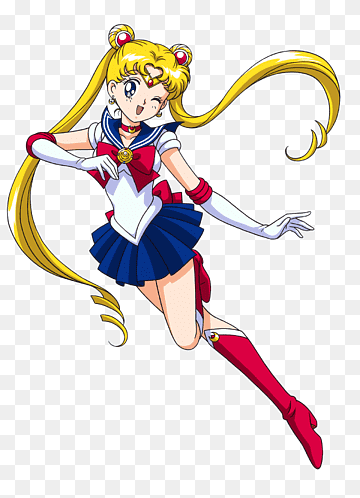
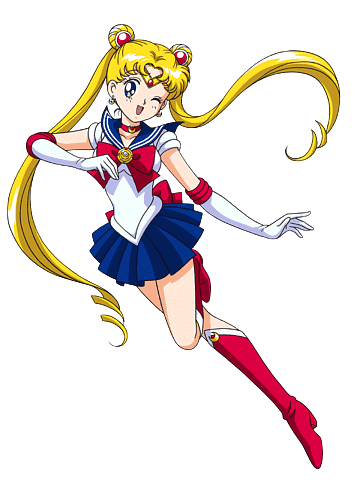
background image

diff --git a/lib/widgets/my_images.dart b/lib/widgets/my_images.dart
@@ -5,7 +5,15 @@ class MyImages extends StatelessWidget {
   Widget build(BuildContext context) {
     return Scaffold(
       body: Center(
-        child: Image.asset('assets/images/sailor.png'),
+        child: Container(
+          color: Colors.pink,
+          child: Image.asset(
+            'assets/images/sailor.png',
+            width: 200,
+            height: 300,
+            fit: BoxFit.fitHeight,
+          ),
+        ),
       ),
     );
   }
